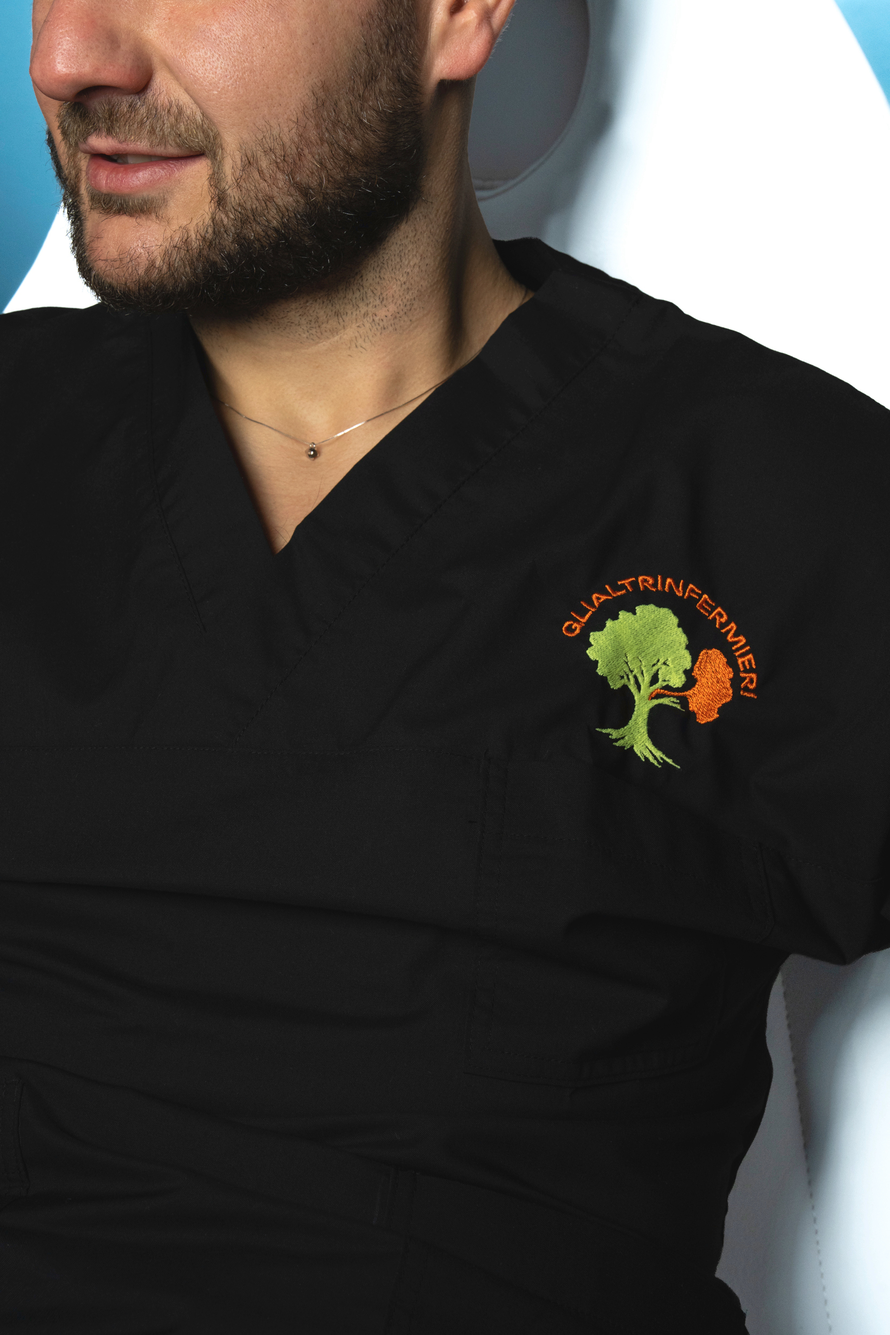
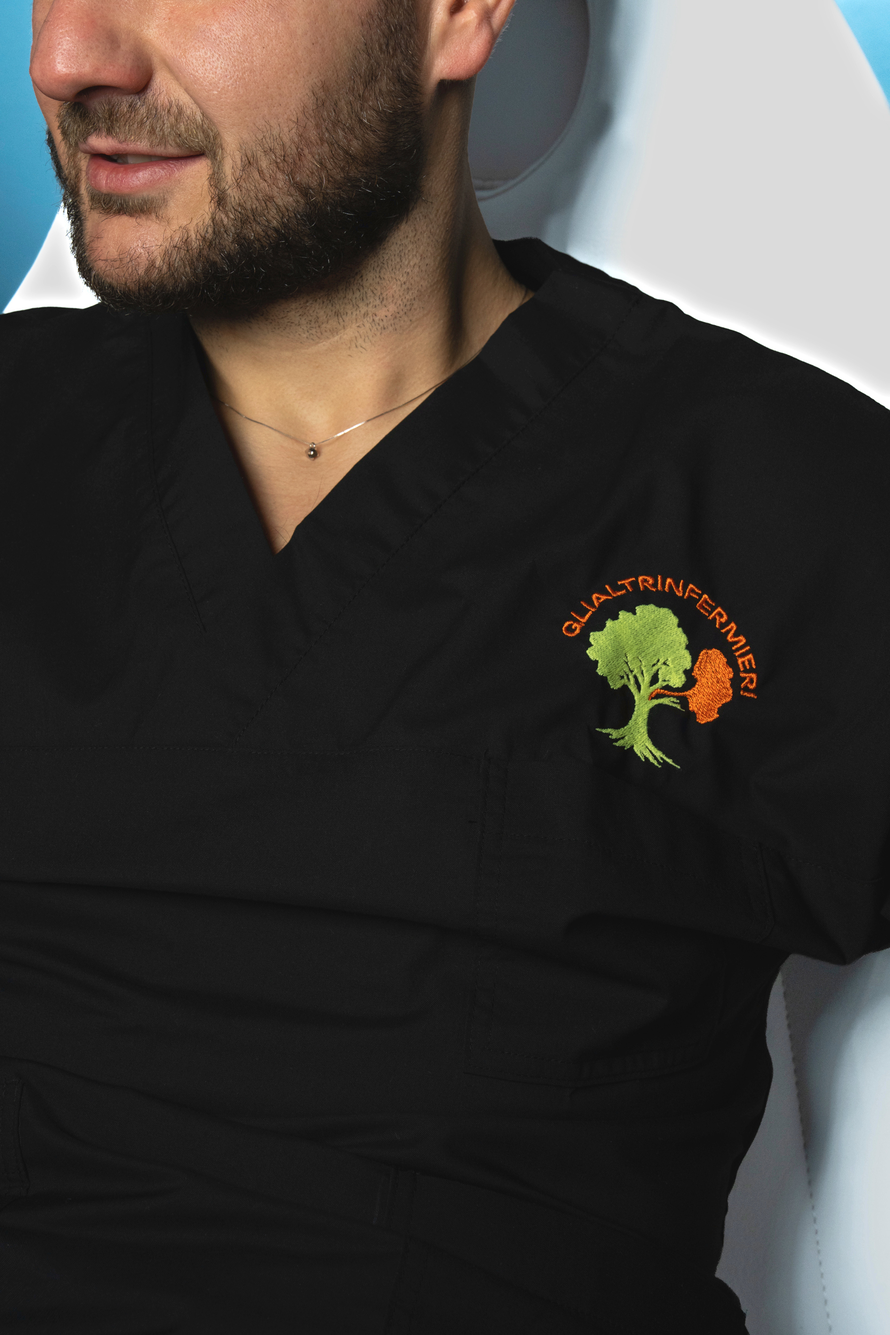
DSC07304: soften the glaring white chair
Claude-Session: https://claude.ai/code/session_015LaDtPY9EJ3LGaJYiZmcoe

Changed region(s): [[0.6551, 0.0, 1.0, 0.312], [0.9358, 0.78, 1.0, 1.0], [0.0312, 0.1872, 0.0936, 0.2184]]

diff --git a/scripts/batch_edit.py b/scripts/batch_edit.py
@@ -422,6 +422,31 @@ def balance_pair(u8, faces, person, name, info):
     return cv2.cvtColor(np.clip(lab, 0, 255).astype(np.uint8), cv2.COLOR_LAB2BGR)
 
 
+# ---------------------------------------------------------------- 4c) tame glaring white furniture
+TAME_WHITES = {'DSC07304.jpg': 0.30}
+
+
+def tame_whites(u8, person, name, info):
+    k = TAME_WHITES.get(name)
+    if not k or person is None:
+        return u8
+    lab = cv2.cvtColor(u8, cv2.COLOR_BGR2LAB).astype(np.float32)
+    hsv = cv2.cvtColor(u8, cv2.COLOR_BGR2HSV)
+    L = lab[..., 0]
+    region = ((hsv[..., 1] < 50) & (hsv[..., 2] > 150) & (cv2.erode(person, np.ones((21, 21), np.uint8)) == 0))
+    region = cv2.morphologyEx(region.astype(np.uint8), cv2.MORPH_OPEN, np.ones((5, 5), np.uint8)).astype(np.float32)
+    region = cv2.GaussianBlur(region, (0, 0), 2)
+    # compress the top of the tonal range: 255 -> ~255-k*105, mid-greys untouched
+    over = np.clip(L - 150, 0, None)
+    L2 = L - k * over
+    # a gentle contrast boost inside the chair so its shape reads
+    local = cv2.GaussianBlur(L2, (0, 0), 20)
+    L2 = local + (L2 - local) * 1.6
+    lab[..., 0] = L * (1 - region) + np.clip(L2, 0, 255) * region
+    info['whites_tamed'] = k
+    return cv2.cvtColor(np.clip(lab, 0, 255).astype(np.uint8), cv2.COLOR_LAB2BGR)
+
+
 # ---------------------------------------------------------------- 5) dust
 def dust(res, a_bg, head, info):
     h, w = res.shape[:2]
@@ -470,6 +495,7 @@ def process(args):
     u8 = skin_retouch(u8, faces, a_bg, info)
     u8 = lift_scrub(u8, a_bg, head, info)
     u8 = balance_pair(u8, faces, person, name, info)
+    u8 = tame_whites(u8, person, name, info)
     u8 = dust(u8, a_bg, head, info)
     kw = dict(quality=98, subsampling=0)
     if pil.info.get('icc_profile'):
